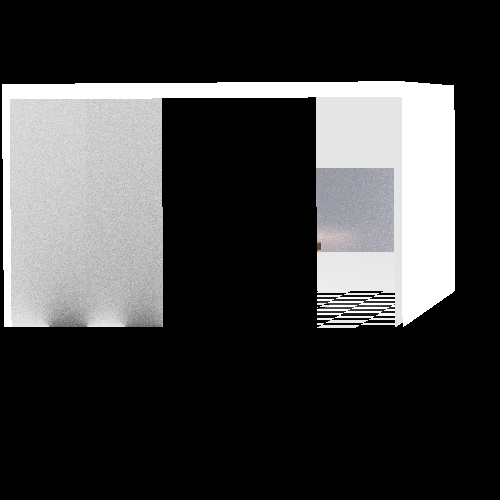
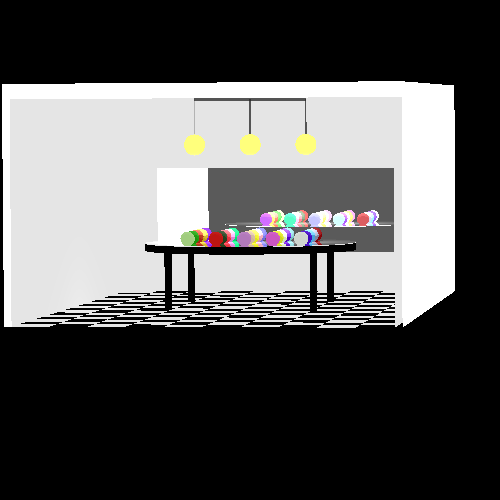
balls

Changed region(s): [[0.0, 0.18, 0.81, 0.66]]

diff --git a/unitTests/renderer/ImprovementTest.java b/unitTests/renderer/ImprovementTest.java
@@ -11,6 +11,7 @@ import primitives.*;
 import renderer.scene.Scene;
 
 import java.util.Arrays;
+import java.util.Random;
 
 import static java.awt.Color.*;
 
@@ -47,8 +48,6 @@ public class ImprovementTest {
             .setMaterial(material);
     private Point spPL = new Point(-50, -50, 25); // Sphere test Position of Light
     private Color spCL = new Color(800, 500, 0); // Sphere test Color of Light
-    private Color mirrorColor = new Color(155, 157, 167);
-
     @Test
     // A test for the scene of the spheres.
     public void sphereSpot() {
@@ -74,49 +73,46 @@ public class ImprovementTest {
         camera1.writeToImage();//
     }
 
+
     @Test
     // A test for the table scene.
     public void table() {
-        Color tableColor = new Color(new java.awt.Color(119, 79, 61));
-        Material tableMaterial = new Material().setKd(0.25).setKs(0.25).setnShininess(20);
-        Table table1 = new Table(100d, 80d, new Point(0, 0, -200), tableColor, tableMaterial);
-//        //Table table2 = new Table(80d,80d,new Point(200, 0, -200) , tableColor, tableMaterial );
-        //Table table3 = new Table(80d,80d,new Point(-200, 0, -200) , tableColor, tableMaterial );
+        Random rand = new Random();
+        Color mirrorColor = new Color(100,100,100);
+        Color tableColor = Color.BLACK;
+        //Color lightColor = new Color(255,250,205);
+        Color lightColor = new Color(255,252,50);
+        Material tableMaterial = new Material().setnShininess(40).setKs(0.5).setKd(0.5).setKg(1);
+        Table table1 = new Table(150, 80d, new Point(0, 0, -200), tableColor, tableMaterial);
         scene1._geometries.addAll(table1._parts);
-        /*scene1._geometries.addAll(table2._parts);
-        scene1._geometries.addAll(table3._parts);*/
-        //Table table4 = new Table(80d,80d,new Point(0, 0, -500) , tableColor, tableMaterial );
-        //Table table5 = new Table(80d,80d,new Point(200, 0, -400) , tableColor, tableMaterial );
-        //Table table6 = new Table(80d,80d,new Point(-200, 0, -400) , tableColor, tableMaterial );
-        //scene1._geometries.addAll(table4._parts);
-        /*scene1._geometries.addAll(table5._parts);
-        scene1._geometries.addAll(table6._parts);
-        Table table7 = new Table(80d,80d,new Point(0, 0, 0) , tableColor, tableMaterial );
-        Table table8 = new Table(80d,80d,new Point(200, 0, 0) , tableColor, tableMaterial );
-        Table table9 = new Table(80d,80d,new Point(-200, 0, 0) , tableColor, tableMaterial );
-        scene1._geometries.addAll(table7._parts);
-        scene1._geometries.addAll(table8._parts);
-        scene1._geometries.addAll(table9._parts);
-        */
+        Point center = new Point(-75,20,-100);
+        for(int i=0;i<5;i++) {
+            for (int j = 0; j < 5; j++) {
+                Sphere sphere = (Sphere) new Sphere(center.add(new Vector(40 * (j + 0.001), 0, -40 * (i + 0.001))), 10d)
+                        .setMaterial(new Material().setKs(0.5).setKd(0.5).setKg(1));
+                sphere.setEmission(new Color(rand.nextInt(256), rand.nextInt(256), rand.nextInt(256)));
+                scene1._geometries.add(sphere);
 
+            }
+        }
         scene1._geometries.add(
-                new Sphere(new Point(-80, 150, -200), 15).setEmission(new Color(YELLOW)) //
-                        .setMaterial(new Material().setKd(0.5).setKs(0.5).setnShininess(20).setKt(0.8).setKg(1)),
-                new Sphere(new Point(0, 150, -200), 15).setEmission(new Color(YELLOW)) //
-                        .setMaterial(new Material().setKd(0.5).setKs(0.5).setnShininess(20).setKt(0.8).setKg(1)),
-                new Sphere(new Point(80, 150, -200), 15).setEmission(new Color(YELLOW)) //
-                        .setMaterial(new Material().setKd(0.5).setKs(0.5).setnShininess(20).setKt(0.8).setKg(1)),
+                new Sphere(new Point(-80, 150, -200), 15).setEmission(lightColor) //
+                        .setMaterial(new Material().setKd(0.5).setKs(0.5).setnShininess(20).setKt(0.5).setKg(1)),
+                new Sphere(new Point(0, 150, -200), 15).setEmission(lightColor) //
+                        .setMaterial(new Material().setKd(0.5).setKs(0.5).setnShininess(20).setKt(0.5).setKg(1)),
+                new Sphere(new Point(80, 150, -200), 15).setEmission(lightColor) //
+                        .setMaterial(new Material().setKd(0.5).setKs(0.5).setnShininess(20).setKt(0.5).setKg(1)),
                 new Cylinder(new Ray(new Point(-80, 165, -200), new Vector(0, 1, 0)), 1d, 50)
-                        .setEmission(new Color(YELLOW)) //
+                        .setEmission(new Color(20,20,20)) //
                         .setMaterial(new Material().setKd(0.5).setKs(0.5).setnShininess(20).setKt(0.8).setKg(1)),
                 new Cylinder(new Ray(new Point(0, 165, -200), new Vector(0, 1, 0)), 1d, 50)
-                        .setEmission(new Color(YELLOW)) //
+                        .setEmission(new Color(20,20,20)) //
                         .setMaterial(new Material().setKd(0.5).setKs(0.5).setnShininess(20).setKt(0.5).setKg(1)),
                 new Cylinder(new Ray(new Point(80, 165, -200), new Vector(0, 1, 0)), 1d, 50)
-                        .setEmission(new Color(YELLOW)) //
+                        .setEmission(new Color(20,20,20)) //
                         .setMaterial(new Material().setKd(0.5).setKs(0.5).setnShininess(20).setKt(0.5).setKg(1)),
                 new Cylinder(new Ray(new Point(-80, 215, -200), new Vector(1, 0, 0)), 3d, 160)
-                        .setEmission(new Color(YELLOW)) //
+                        .setEmission(new Color(20,20,20)) //
                         .setMaterial(new Material().setKd(0.5).setKs(0.5).setnShininess(20).setKt(0.5).setKg(1)));
 
 /*
@@ -151,6 +147,8 @@ public class ImprovementTest {
         Point w33 = new Point(-260, -80, -590);
         Point w44 = new Point(260, -80, -590);
         scene1._geometries.addAll(new Wall(w11, w22, w33, w44, 295, new Color(WHITE), new Material().setKd(0.7))._parts);
+
+
 /*
         //front1
         Point wf11 = new Point(-150, -80, 260);
@@ -168,7 +166,7 @@ public class ImprovementTest {
         scene1._geometries.add(new Polygon(wf21,wf22,wf23,wf24).setEmission(new Color(BLACK))
                 .setMaterial(new Material().setKd(0.2).setKs(0.2).setnShininess(30).setKt(0.9).setKg(0.4)));
  */
-
+/*
         //front3
         Point wf31 = new Point(100, -80, 260);
         Point wf32 = new Point(-260, -80, 260);
@@ -177,6 +175,7 @@ public class ImprovementTest {
         scene1._geometries.add(new Polygon(wf31,wf32,wf33,wf34).setEmission(new Color(BLACK))
                 .setMaterial(new Material().setKd(0.2).setKs(0.2).setnShininess(30).setKt(0.9).setKg(0.49)));
 
+ */
 
 /*
         //front4
@@ -189,10 +188,11 @@ public class ImprovementTest {
 
 
  */
+
         //front5
         Point wf51 = new Point(260, -80, 260);
-        Point wf52 = new Point(100, -80, 260);
-        Point wf53 = new Point(100, 215, 260);
+        Point wf52 = new Point(-260, -80, 260);
+        Point wf53 = new Point(-260, 215, 260);
         Point wf54 = new Point(260, 215, 260);
         scene1._geometries.add(new Polygon(wf51,wf52,wf53,wf54).setEmission(new Color(BLACK))
                 .setMaterial(new Material().setKd(0.2).setKs(0.2).setnShininess(30).setKt(0.9).setKg(1)));
@@ -221,8 +221,8 @@ public class ImprovementTest {
 
 
         Point leftBack = new Point(-300, -80, 260);
-        Material redMaterial = new Material().setnShininess(30).setKd(0.5).setKs(0.5);
-        Material blackMaterial = new Material().setnShininess(30).setKd(0.5).setKs(0.5);
+        Material redMaterial = new Material().setnShininess(30).setKd(0.5).setKs(0.5).setKr(0.8).setKg(1);
+        Material blackMaterial = new Material().setnShininess(30).setKd(0.5).setKs(0.5).setKr(0.8).setKg(1);
 
         for (int i = 1; i < 18; i++) {
             leftBack = leftBack.add(new Vector(0, 0, -50));
@@ -263,17 +263,16 @@ public class ImprovementTest {
 
         }
 */
-        scene1._lights.add(new SpotLight(new Color(WHITE), new Point(-80, 150, -200), new Vector(0, -1, 0)).set_shorten(0.2));
-        scene1._lights.add(new SpotLight(new Color(WHITE), new Point(0, 150, -200), new Vector(0, -1, 0)).set_shorten(0.2)
-                .setKl(0.00001).setKq(0.000005));
-        scene1._lights.add(new SpotLight(new Color(WHITE), new Point(80, 150, -200), new Vector(0, -1, 0)).set_shorten(0.2));
+        scene1._lights.add(new SpotLight(new Color(WHITE), new Point(-80, 150, -200), new Vector(0, -1, 0)).set_shorten(0.1));
+        scene1._lights.add(new SpotLight(new Color(WHITE), new Point(0, 150, -200), new Vector(0, -1, 0)).set_shorten(0.1));
+        scene1._lights.add(new SpotLight(new Color(WHITE), new Point(80, 150, -200), new Vector(0, -1, 0)).set_shorten(0.1));
         //scene1._lights.add(new SpotLight(new Color(WHITE), new Point(0,100,4000), new Vector(0,0,-1)));
         //scene1._lights.add(new SpotLight(new Color(WHITE), new Point(-400, -400, 0), new Vector(0.2d, 0.5d, -1)));
         //scene1.lights.add(new DirectionalLight(new Color(GREEN), new Vector(1,1,1)));
         //scene1.lights.add(_directionalLight);
         //scene1.lights.add(_directionalLight1);
         //scene1.lights.add(new PointLight(spCL, spPL).setKl(0.001).setKq(0.0002));
-        ImageWriter imageWriter = new ImageWriter("wall3", 500, 500);
+        ImageWriter imageWriter = new ImageWriter("wall4", 500, 500);
         camera1.setFocusField(1800);
         Camera camera1 = new Camera(new Point(0, 200, 4500), new Vector(0, -0.0425, -0.999), new Vector(0, 0.999, -0.0425)) //
                 .setVPSize(150, 150) //

diff --git a/unitTests/renderer/FinalTest.java b/unitTests/renderer/FinalTest.java
@@ -31,19 +31,15 @@ public class FinalTest {
             for(int j=0;j<5;j++){
                 Sphere sphere = (Sphere) new Sphere(center.add(new Vector(30*(j+0.001),0,-40*(i+0.001))),10d)
                         .setMaterial(new Material().setKs(0.5).setKd(0.5).setKg(1));
-                //if(i==j)
-                    sphere.setEmission(new Color(rand.nextInt(256),rand.nextInt(256),rand.nextInt(256)));
-                //else
-                  //  sphere.setEmission(new Color(136,139,141));
-
+                sphere.setEmission(new Color(rand.nextInt(256),rand.nextInt(256),rand.nextInt(256)));
                 scene1._geometries.add(sphere);
 
         }
-            scene1._geometries.add(
+           /* scene1._geometries.add(
                     new Sphere(new Point(-40,55,-150), 20)
                             .setEmission(new Color(136,139,141))
                             .setMaterial(new Material().setKs(0.5).setKd(0.5).setKr(1).setKg(1))
-            );
+            );*/
         }
         scene1._geometries.add(new Polygon(
                 new Point(-70,-10,40),

diff --git a/src/objects/Table.java b/src/objects/Table.java
@@ -24,7 +24,9 @@ public class Table  {
 
         double x = Math.sqrt((_radius-5)*(_radius-5)/2);
 
-        Collections.addAll(_parts, new Cylinder(new Ray(_center,new Vector(0,1,0)),_radius, 10d).setEmission(_color) //
+        Collections.addAll(_parts, new Cylinder(new Ray(_center.add(new Vector(0,10,0)),new Vector(0,1,0)),_radius, 1d).setEmission(_color) //
+                        .setMaterial(new Material().setnShininess(40).setKs(0.5).setKd(0.5).setKr(1).setKg(1)),
+                new Cylinder(new Ray(_center,new Vector(0,1,0)),_radius, 10d).setEmission(_color) //
                         .setMaterial(_material),
                 new Cylinder(new Ray(_center.add(new Vector(x,0,x)),new Vector(0,-1,0)),5d, _height).setEmission(_color) //
                         .setMaterial(_material),
